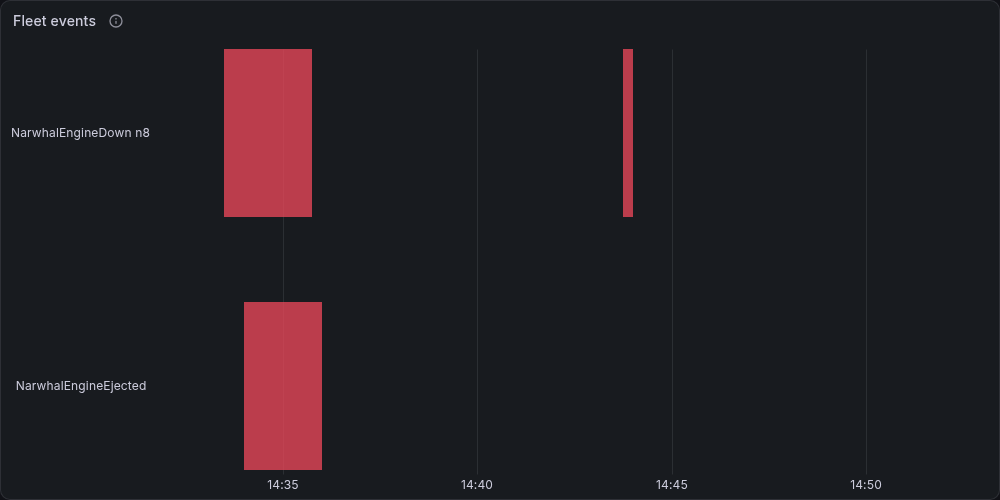
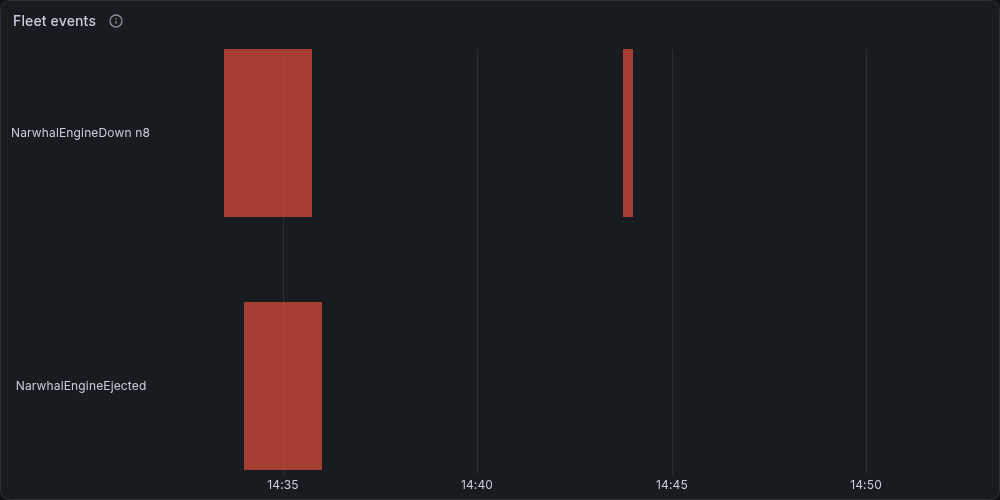
fix: use one red across the dashboard
The dashboard drew red in two shades: brick red for engine states and the
KV cache limit, and a lighter red for pages, SLO lines, failed requests,
ejected engines and headline values past their limit. Every red now uses
brick red #D44A3A, so a red element means the same thing on each panel.

Pink, maroon and dark red keep their own meanings for invalid requests,
blocked engines and expired requests. The colour table, the palette test
and the chart screenshots that show red follow the change.

Changed region(s): [[0.217, 0.6, 0.341, 0.96], [0.217, 0.09, 0.31, 0.45], [0.62, 0.09, 0.651, 0.45]]

diff --git a/tests/observability/test_public_namespace.py b/tests/observability/test_public_namespace.py
@@ -32,7 +32,6 @@ DASHBOARD_PALETTE = {
     "good": "#56A64B",
     "state warning": "#C8963E",
     "state serious": "#E0752D",
-    "state critical": "#D44A3A",
     "state severe": "#A11D1D",
     "state pending": "#9E4AA4",
     "neutral": "#8E9196",
@@ -41,7 +40,7 @@ DASHBOARD_PALETTE = {
     "warning": "#F2CC0C",
     "serious": "#FF9830",
     "invalid": "#FF7383",
-    "critical": "#F2495C",
+    "critical": "#D44A3A",
     "severe": "#C4162A",
     "router delay": "#A352CC",
     "router occupancy": "#CA95E5",

diff --git a/docs/observability/05-Dashboard.md b/docs/observability/05-Dashboard.md
@@ -34,7 +34,7 @@ The engine table and **Engine role history** colour engine states:
 | ------------ | --------- | ------------------------------------------------------ |
 | Amber        | `#C8963E` | Backlogged, Probation, Verifying and KV cache from 80% |
 | Burnt orange | `#E0752D` | Quarantined                                            |
-| Brick red    | `#D44A3A` | Ejected, Unreachable and KV cache from 95%             |
+| Red          | `#D44A3A` | Ejected, Unreachable and KV cache from 95%             |
 | Maroon       | `#A11D1D` | Blocked                                                |
 | Magenta      | `#9E4AA4` | Switching and Validating                               |
 | Grey         | `#8E9196` | Draining, Restarting, N/A and the engine table bars    |
@@ -49,7 +49,7 @@ The charts and the headline row colour request outcomes, alerts, status values a
 | Yellow       | `#F2CC0C` | refused, warnings, the pool target and headline values near their limit        |
 | Orange       | `#FF9830` | rejected                                                                       |
 | Pink         | `#FF7383` | invalid                                                                        |
-| Red          | `#F2495C` | failed, pages, SLO lines, ejected engines and headline values past their limit |
+| Red          | `#D44A3A` | failed, pages, SLO lines, ejected engines and headline values past their limit |
 | Dark red     | `#C4162A` | expired                                                                        |
 | Purple       | `#B877D9` | retry attempts                                                                 |
 | Dark purple  | `#A352CC` | queue wait and event-loop lag                                                  |
